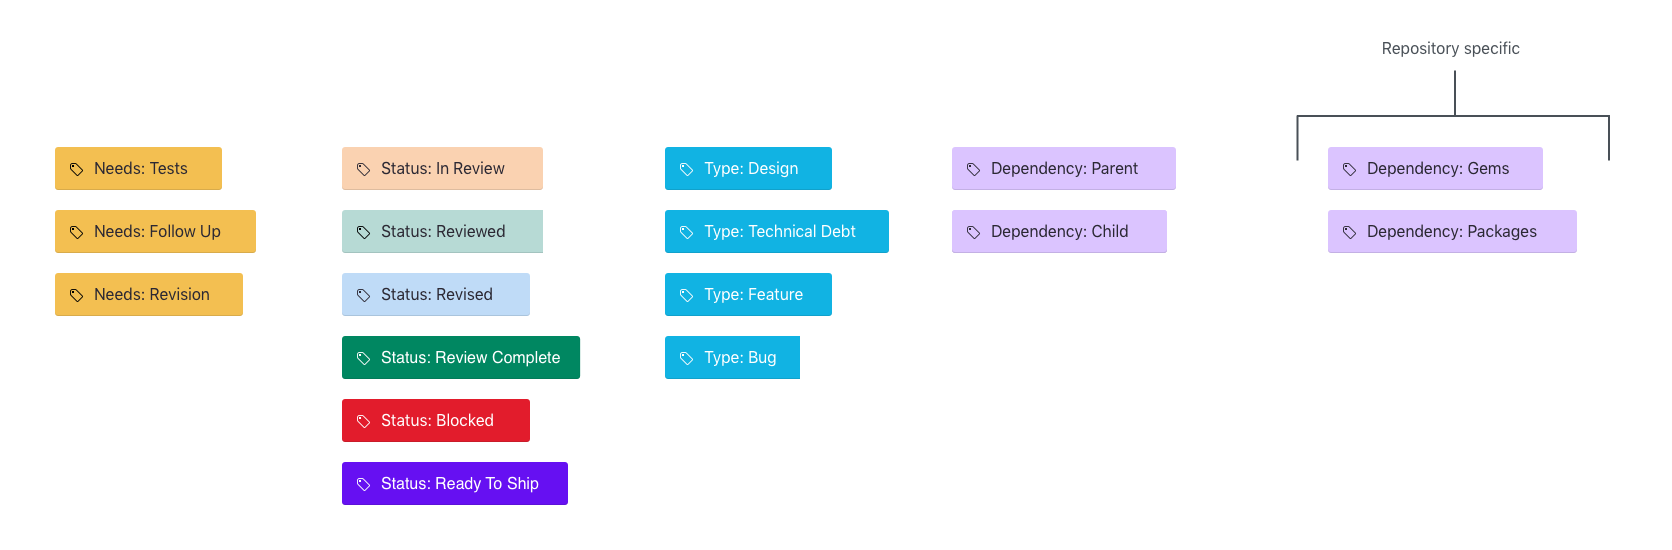
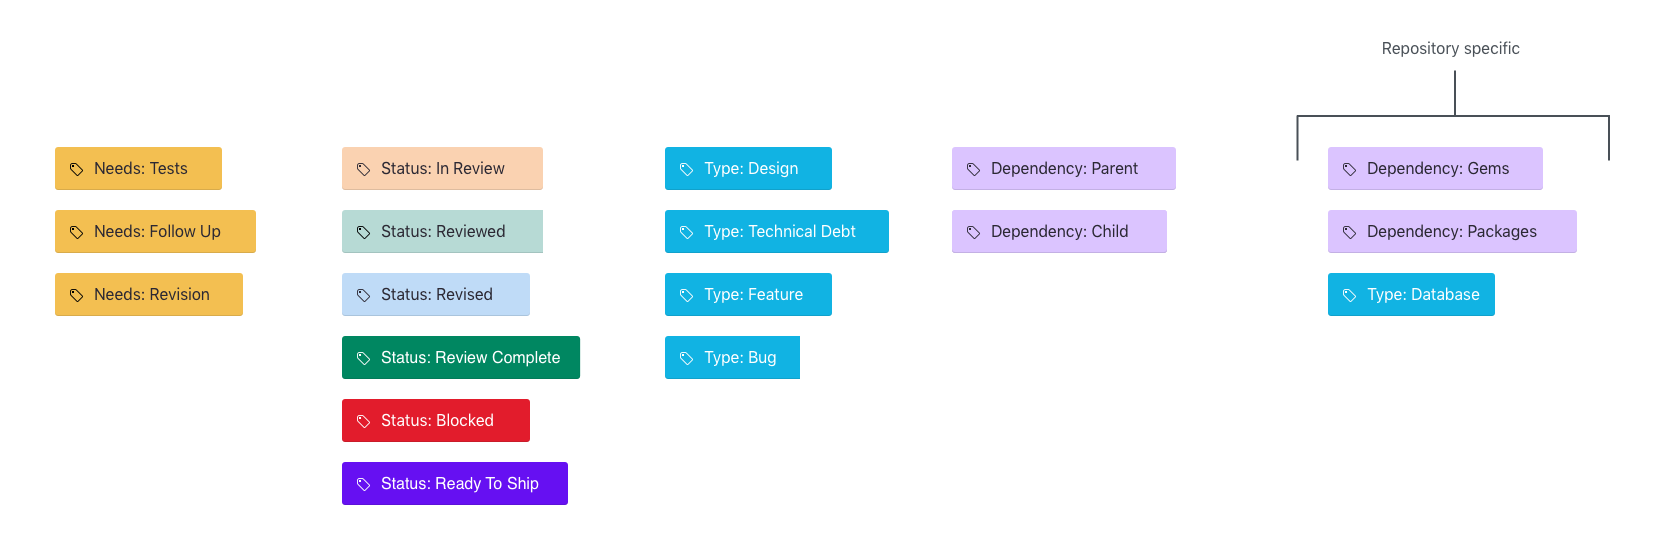
Add `Type: Database` label to repository-specific. (#40)

Changed region(s): [[0.7775, 0.4945, 0.9019, 0.5873]]

diff --git a/protocol/github/labels/README.md b/protocol/github/labels/README.md
@@ -50,6 +50,7 @@ for a deeper understanding of Status labels._
 
 - Dependency: Gems
 - Dependency: Packages
+- Type: Database
 
 ### Colors
 
